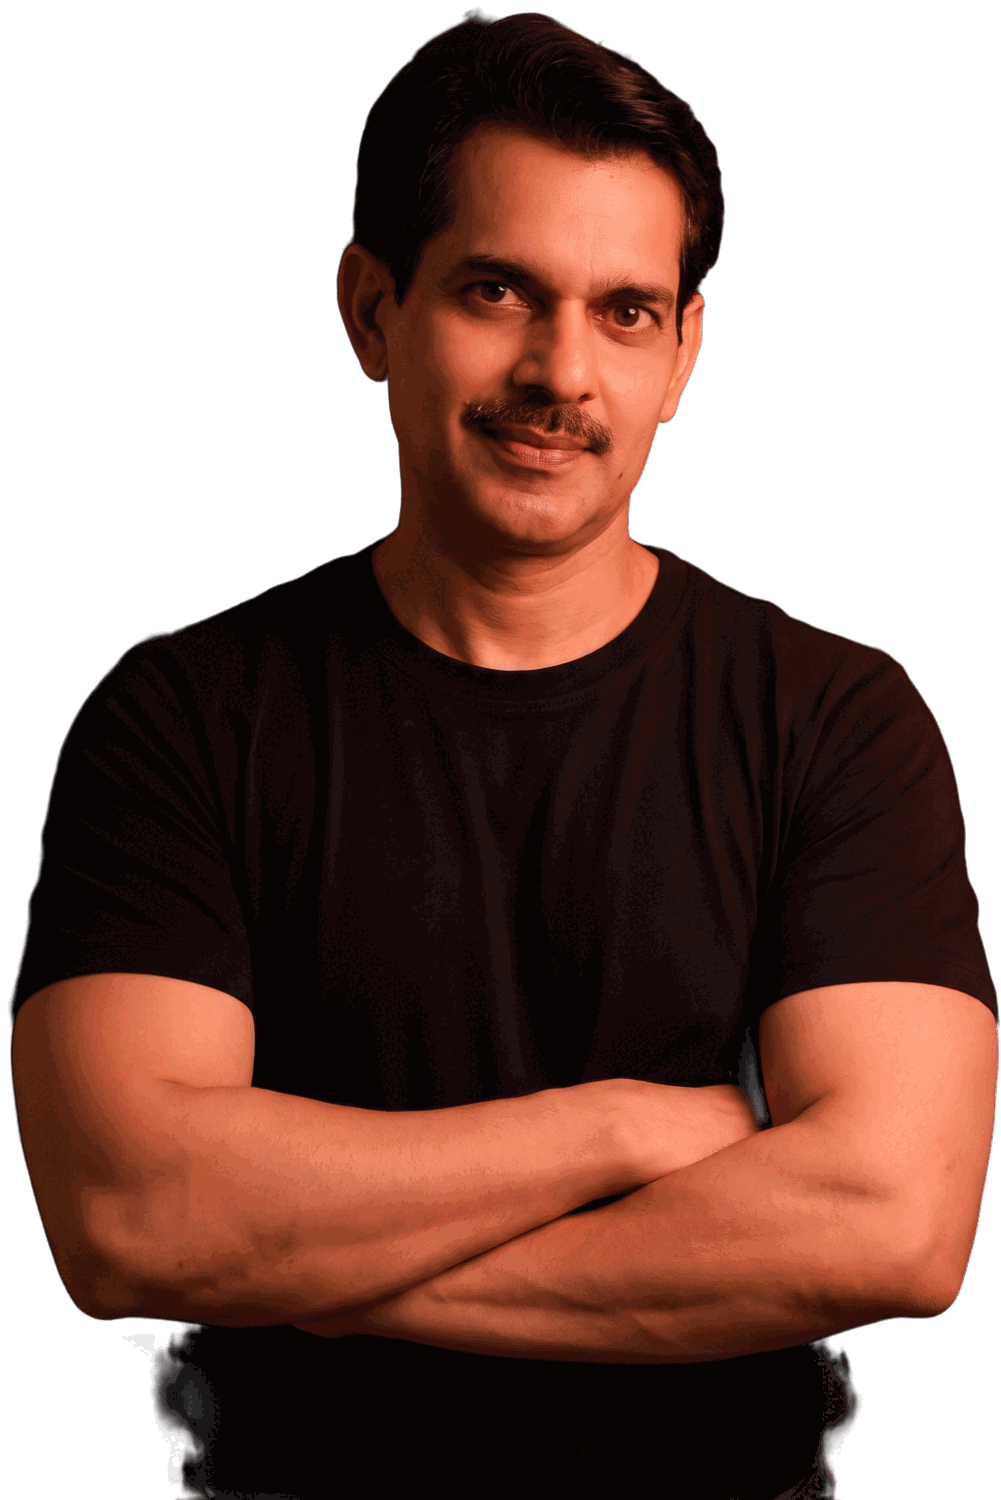
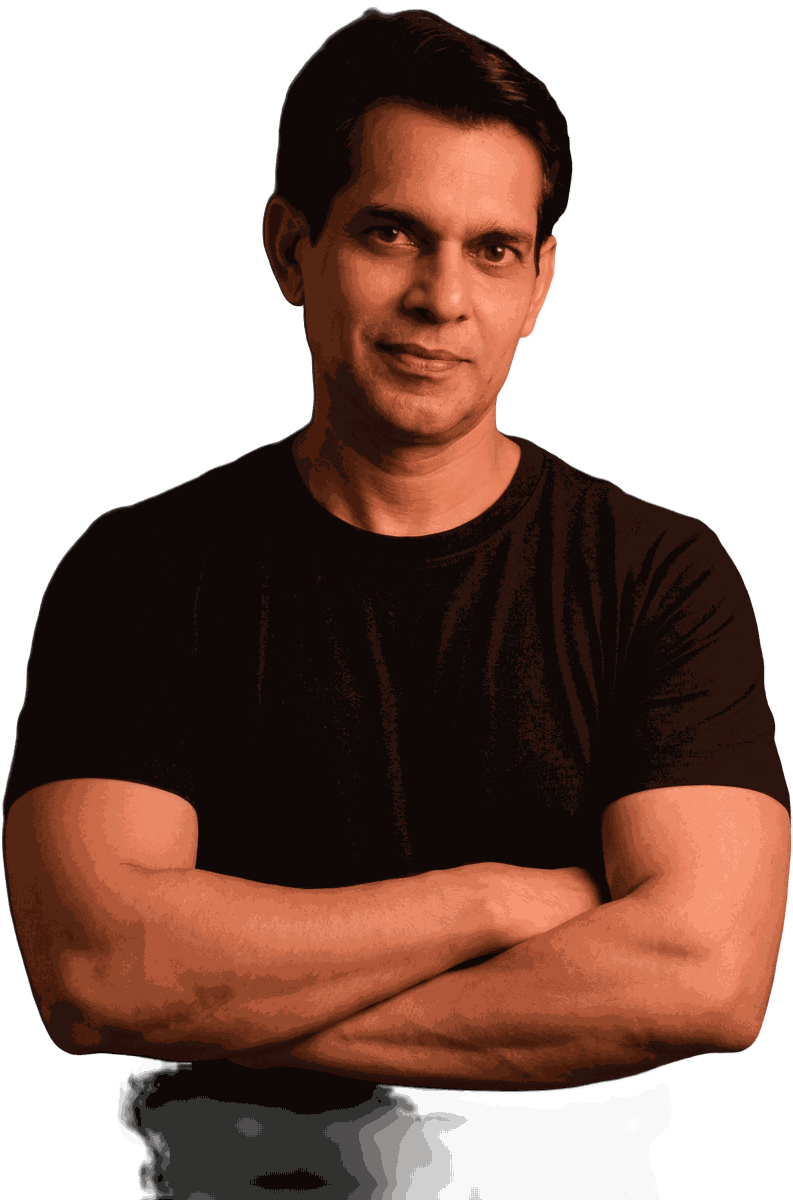
Hero: remove the moustache
Identity-preserving edit of the existing hero rather than a fresh
generation, so only the upper lip changed — same face width, age, hairline,
eyes, expression, crossed-arms pose, wardrobe, ember lighting and framing.
Three candidates were produced; the two rejected ones had subtly slimmed
the jaw. Aspect went 0.667 -> 0.661 and the subject fills the canvas in
both, so the hero composition is unchanged.

Also fixes a caching trap this exposed. /assets/* is pinned immutable for a
year on the stated assumption that images are never mutated in place — but
swapnil-hero.* and band-studio.webp now have been, which would have left
every returning visitor on the old pictures indefinitely. Both carry ?v=24
on their URLs, and the _headers comment now says so instead of asserting
the opposite.

diff --git a/index.html b/index.html
@@ -75,10 +75,10 @@
     <div class="hero__watermark" aria-hidden="true">Coach<br>Swapnil</div>
 
     <picture class="hero__photo">
-      <source srcset="assets/swapnil-hero.webp" type="image/webp">
-      <img src="assets/swapnil-hero.png"
+      <source srcset="assets/swapnil-hero.webp?v=24" type="image/webp">
+      <img src="assets/swapnil-hero.png?v=24"
            alt="Coach Swapnil, certified fitness trainer, arms folded"
-           width="1001" height="1500" fetchpriority="high" decoding="async">
+           width="793" height="1200" fetchpriority="high" decoding="async">
     </picture>
     <div class="hero__scrim" aria-hidden="true"></div>
 
@@ -386,7 +386,7 @@ Costs</h2>
   <!-- ============================== BAND ============================== -->
   <!-- Decorative breather between the fee tables and the bio. -->
   <div class="band" aria-hidden="true">
-    <img src="assets/band-studio.webp" alt="" loading="lazy" width="1600" height="893">
+    <img src="assets/band-studio.webp?v=24" alt="" loading="lazy" width="1600" height="893">
   </div>
 
   <!-- ============================== ABOUT ============================= -->

diff --git a/og-template.html b/og-template.html
@@ -61,7 +61,7 @@
 <body>
 <div class="og">
   <div class="og__watermark" aria-hidden="true">Coach<br>Swapnil</div>
-  <div class="og__photo"><img src="assets/swapnil-hero.webp" alt=""></div>
+  <div class="og__photo"><img src="assets/swapnil-hero.webp?v=24" alt=""></div>
   <div class="og__scrim"></div>
 
   <div class="og__body">
